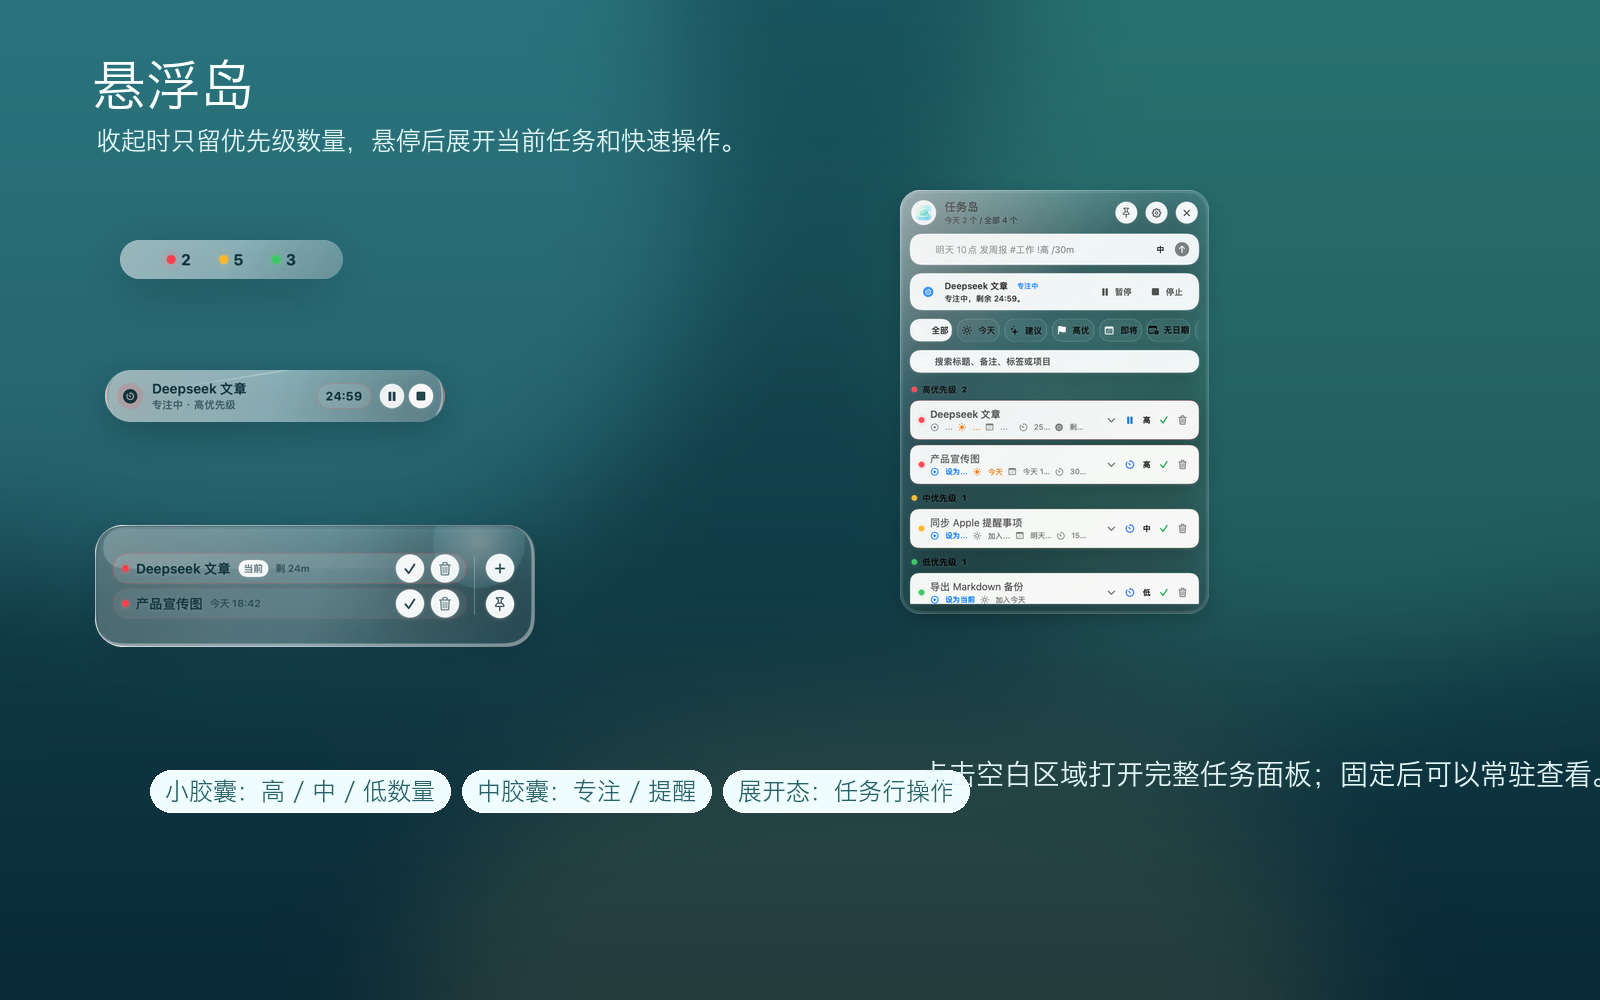
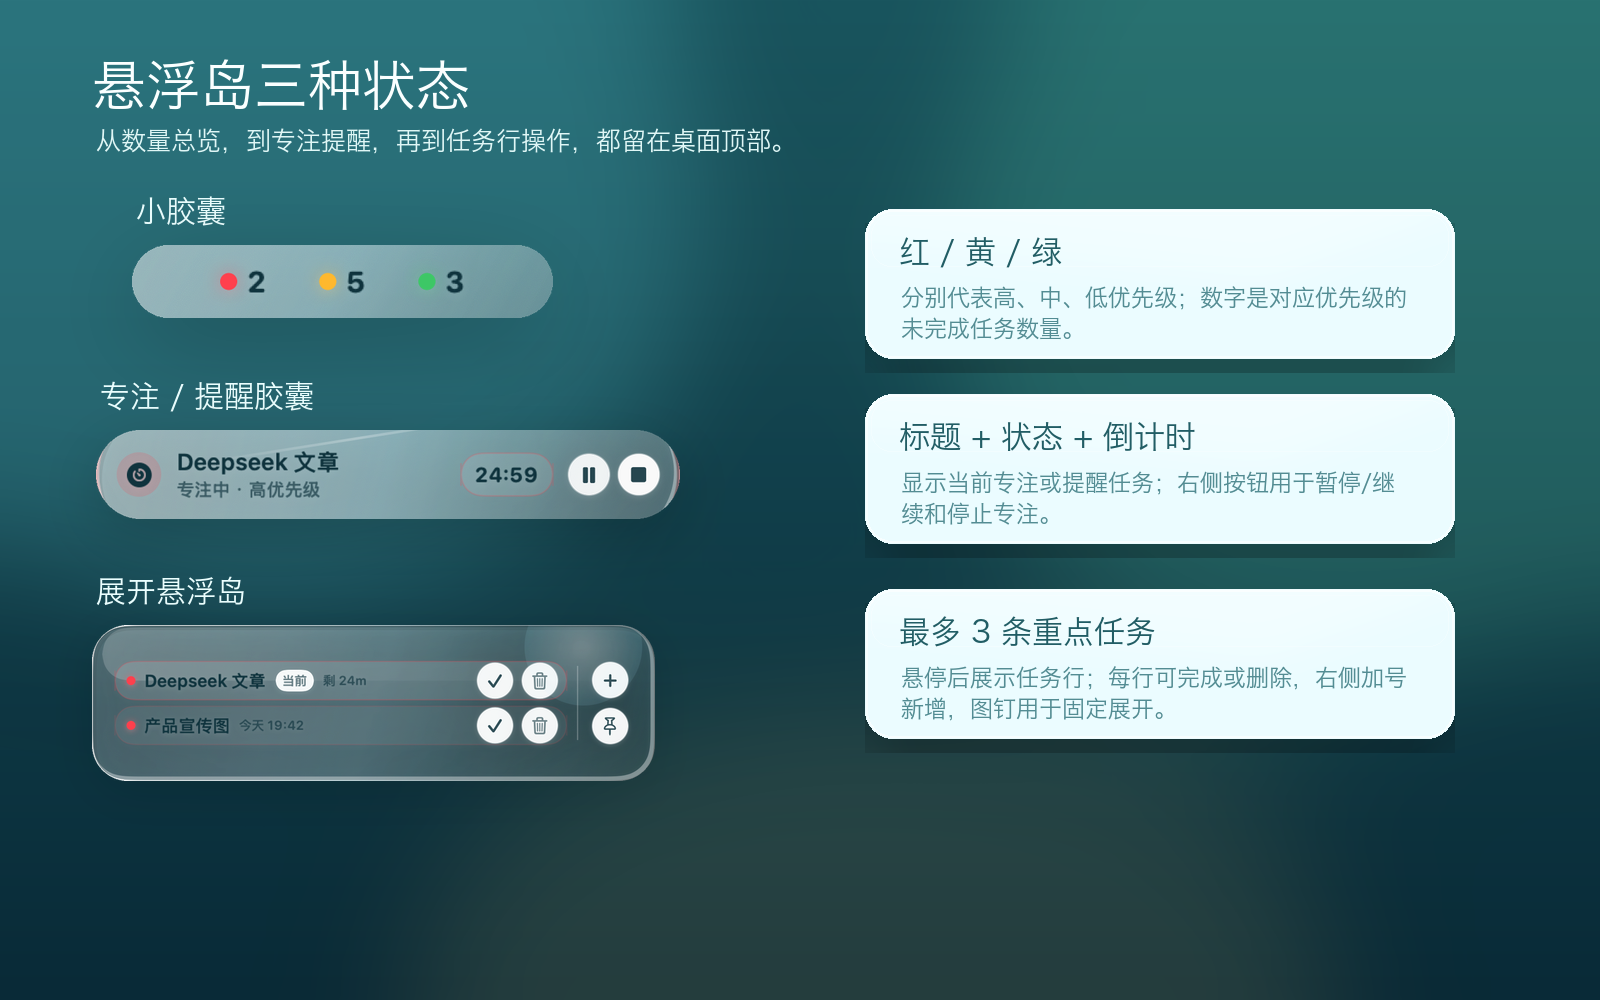
Update floating island README screenshot

diff --git a/Scripts/generate-posters.py b/Scripts/generate-posters.py
@@ -228,31 +228,41 @@ def ensure_ui_snapshots():
 
 
 def clip_ui_snapshots():
-    clip_specs = {
-        "island-collapsed.png": (172, "capsule"),
-        "island-attention.png": (340, "capsule"),
-        "island-expanded.png": (440, 28),
-        "task-panel.png": (430, 28),
-    }
-
     for name, (logical_width, radius) in clip_specs.items():
         path = UI_SNAPSHOTS / name
         image = Image.open(path).convert("RGBA")
-        scale = image.width / logical_width
-        radius_px = image.height // 2 if radius == "capsule" else int(radius * scale)
+        clipped_ui_snapshot(name, image).save(path)
 
-        mask = Image.new("L", image.size, 0)
-        ImageDraw.Draw(mask).rounded_rectangle(
-            (0, 0, image.width - 1, image.height - 1),
-            radius=radius_px,
-            fill=255,
-        )
-        image.putalpha(ImageChops.multiply(image.getchannel("A"), mask))
-        image.save(path)
+
+clip_specs = {
+    "island-collapsed.png": (172, "capsule"),
+    "island-attention.png": (340, "capsule"),
+    "island-expanded.png": (440, 28),
+    "task-panel.png": (430, 28),
+}
+
+
+def clipped_ui_snapshot(name: str, image: Image.Image) -> Image.Image:
+    spec = clip_specs.get(name)
+    if spec is None:
+        return image
+
+    logical_width, radius = spec
+    scale = image.width / logical_width
+    radius_px = image.height // 2 if radius == "capsule" else int(radius * scale)
+    mask = Image.new("L", image.size, 0)
+    ImageDraw.Draw(mask).rounded_rectangle(
+        (0, 0, image.width - 1, image.height - 1),
+        radius=radius_px,
+        fill=255,
+    )
+    clipped = image.copy()
+    clipped.putalpha(ImageChops.multiply(clipped.getchannel("A"), mask))
+    return clipped
 
 
 def paste_ui_snapshot(base: Image.Image, name: str, xy: tuple[int, int], scale: float = 1.0) -> tuple[int, int]:
-    image = Image.open(UI_SNAPSHOTS / name).convert("RGBA")
+    image = clipped_ui_snapshot(name, Image.open(UI_SNAPSHOTS / name).convert("RGBA"))
     size = (int(image.width / 3 * scale), int(image.height / 3 * scale))
     image = image.resize(size, Image.Resampling.LANCZOS)
     alpha = image.getchannel("A")
@@ -779,15 +789,58 @@ def draw_setting_card(
 
 
 def render_screenshot_floating_island():
-    img, draw = screenshot_canvas("悬浮岛", "收起时只留优先级数量，悬停后展开当前任务和快速操作。")
-    paste_ui_snapshot(img, "island-collapsed.png", (120, 240), 1.3)
-    paste_ui_snapshot(img, "island-attention.png", (105, 370), 1.0)
-    paste_ui_snapshot(img, "island-expanded.png", (95, 525), 1.0)
-    paste_ui_snapshot(img, "task-panel.png", (900, 190), 0.72)
-    x = draw_label(draw, (150, 770), "小胶囊：高 / 中 / 低数量")
-    x = draw_label(draw, (x, 770), "中胶囊：专注 / 提醒")
-    draw_label(draw, (x, 770), "展开态：任务行操作")
-    draw.text((920, 760), "点击空白区域打开完整任务面板；固定后可以常驻查看。", font=font(28), fill=(226, 248, 247, 224))
+    img, draw = screenshot_canvas("悬浮岛三种状态", "从数量总览，到专注提醒，再到任务行操作，都留在桌面顶部。")
+    ink = (235, 255, 255, 245)
+    muted = (219, 246, 245, 218)
+    card_ink = (18, 82, 90, 238)
+    card_muted = (47, 116, 124, 210)
+
+    states = [
+        (
+            "小胶囊",
+            "island-collapsed.png",
+            (132, 245),
+            2.45,
+            "红 / 黄 / 绿",
+            "分别代表高、中、低优先级；数字是对应优先级的未完成任务数量。",
+        ),
+        (
+            "专注 / 提醒胶囊",
+            "island-attention.png",
+            (96, 430),
+            1.72,
+            "标题 + 状态 + 倒计时",
+            "显示当前专注或提醒任务；右侧按钮用于暂停/继续和停止专注。",
+        ),
+        (
+            "展开悬浮岛",
+            "island-expanded.png",
+            (92, 625),
+            1.28,
+            "最多 3 条重点任务",
+            "悬停后展示任务行；每行可完成或删除，右侧加号新增，图钉用于固定展开。",
+        ),
+    ]
+
+    for title, snapshot, xy, scale, summary, detail in states:
+        x, y = xy
+        draw.text((x + 4, y - 50), title, font=font(30), fill=ink)
+        paste_ui_snapshot(img, snapshot, xy, scale)
+
+        card_x = 865
+        card_y = y - 36
+        paste_glass(img, (card_x, card_y), (590, 150), 28, (235, 252, 255, 168), (255, 255, 255, 132))
+        draw.text((card_x + 34, card_y + 26), summary, font=font(31), fill=card_ink)
+        draw_wrapped(
+            draw,
+            detail,
+            (card_x + 36, card_y + 76),
+            510,
+            font(23),
+            card_muted,
+            8,
+        )
+
     SCREENSHOTS.mkdir(parents=True, exist_ok=True)
     img.save(SCREENSHOTS / "01-floating-island.png")
 